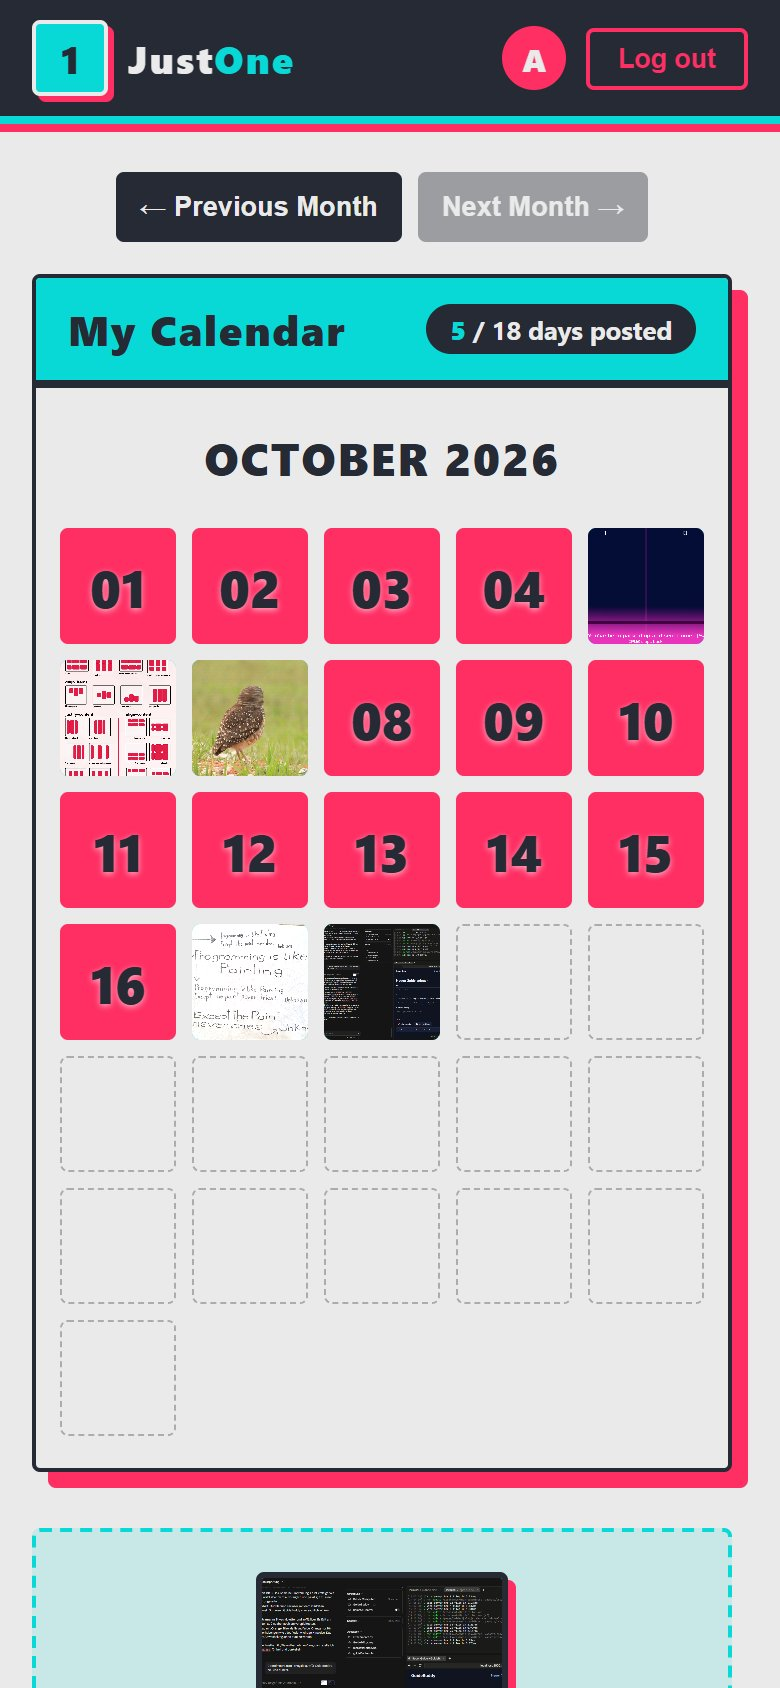
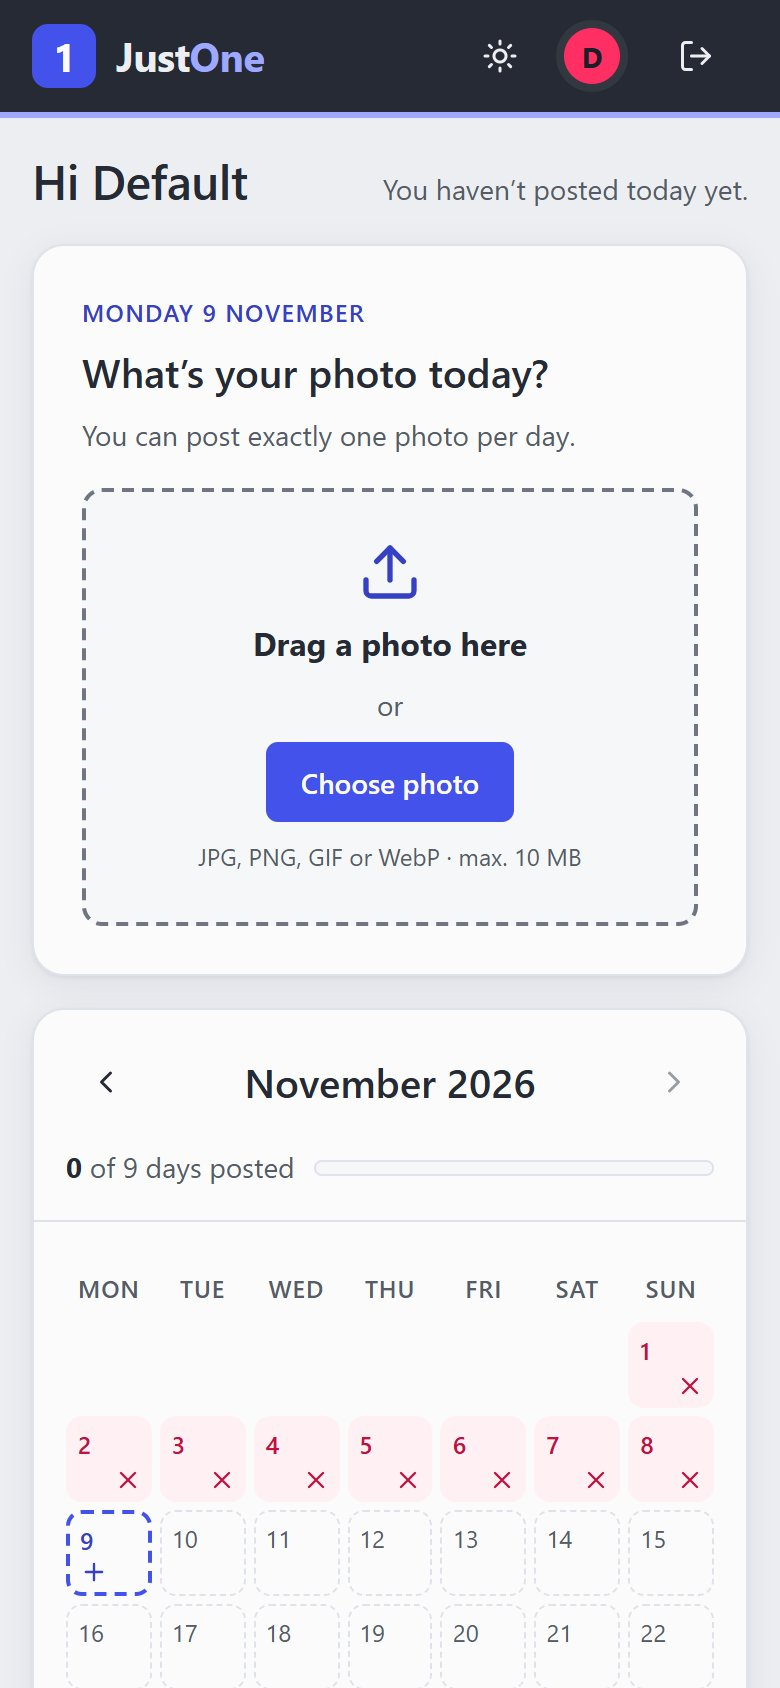
Update README for the redesign with new screenshots
- New screenshots: calendar, comments (portrait/landscape), login,
  mobile and a new dark mode view
- Describe the new features (states, dark mode, accessibility)
- Color table now Indigo/Pink/Gray/Red with roles; link to mockups
- Project structure lists the new components and composables

diff --git a/README.md b/README.md
@@ -18,21 +18,27 @@ A social network with one simple rule: **one photo per day, nothing more.** No e
 
 ### Monthly calendar
 
-The whole page: sticky header, month navigation, the calendar with a "days posted" counter, the upload box for today's photo, the guestbook and the footer.
+The month as a real calendar (Monday to Sunday) with a "days posted" counter. Missed days are marked with an icon and text, not only by color. Next to it sits the one task of the day: the "Today" card with drag & drop upload. Below it, the private guestbook.
 
-![JustOne calendar view with header, upload, guestbook and footer](docs/screenshot.jpeg)
+![JustOne calendar view with today card, guestbook and footer](docs/screenshot.jpeg)
 
 ### Comments
 
-The post view adapts to the photo: portrait images sit next to the comments, landscape images are shown above them.
+The photo view follows the theme and adapts to the photo: portrait images sit next to the comments, landscape images are shown above them. Arrow keys switch to the previous/next photo, Escape closes it.
 
 | Portrait photo | Landscape photo |
 | --- | --- |
 | ![Comments next to a portrait photo](docs/comments-screenshot.jpeg) | ![Comments below a landscape photo](docs/comments-landscape-screenshot.jpeg) |
 
+### Dark mode
+
+Its own dark palette (not an inverted light theme): raised surfaces get lighter, text is a soft white. The theme follows the system setting and can be switched in the header.
+
+![JustOne calendar in dark mode](docs/dark-screenshot.jpeg)
+
 ### Login and mobile view
 
-The login page shares the header and footer. On phones the calendar switches to a compact five-column grid.
+Forms with visible labels, a demo-account button and error messages that explain what to do. On phones the most important card – today's photo – comes first.
 
 | Login | Mobile |
 | --- | --- |
@@ -54,18 +60,25 @@ Every user sees their month as a grid of boxes, one per day. If a photo was post
 - **Daily comments**: comments attached directly to a post, with author display
 - **Guestbook**: a dedicated section below the calendar
 - **Comment box**: auto-growing text field, emoji picker, Enter to send, character counter
-- **Responsive design**: sticky header with user menu, footer, hover/focus states and a dedicated mobile layout
+- **Feedback for every state**: skeletons while loading, errors with a "Try again" action, confirmation before deleting, toasts after posting
+- **Dark mode**: follows the system, switchable (system / light / dark) in the header
+- **Accessible**: WCAG AA contrast for all text, keyboard-operable calendar and dialogs, visible focus, labelled form fields, `prefers-reduced-motion` respected
+- **Responsive design**: two columns on desktop, one column on phones with today's task first
 
 ## Design
 
-All colors come from one palette, defined once as CSS variables in [`theme.css`](vue-frontend/src/assets/theme.css) and used by every component:
+The design follows common UI/UX guidelines (Nielsen heuristics, WCAG, 60-30-10 color rule). The mockups and the reasoning behind them are in [`docs/mockups`](docs/mockups/index.html).
 
-| Color | Hex | Used for |
+All colors are defined once as fixed scales (50–900) in [`theme.css`](vue-frontend/src/assets/theme.css). Components only use semantic roles such as `--accent`, `--surface` or `--missed`, so light and dark mode switch automatically.
+
+| Color | Base | Role |
 | --- | --- | --- |
-| ![cyan](https://img.shields.io/badge/-%20-08d9d6?style=flat-square) Cyan | `#08d9d6` | header accents, calendar header, footer, primary buttons |
-| ![dark](https://img.shields.io/badge/-%20-252a34?style=flat-square) Dark | `#252a34` | header, text, borders, modal background |
-| ![pink](https://img.shields.io/badge/-%20-ff2e63?style=flat-square) Pink | `#ff2e63` | missed days, offset shadows, hover states, errors |
-| ![light](https://img.shields.io/badge/-%20-eaeaea?style=flat-square) Light | `#eaeaea` | page background, text on dark surfaces |
+| ![indigo](https://img.shields.io/badge/-%20-5b6cff?style=flat-square) Indigo | `#5b6cff` | primary color: logo, primary buttons, links, focus, today, progress |
+| ![pink](https://img.shields.io/badge/-%20-ff2e63?style=flat-square) Pink | `#ff2e63` | secondary color: missed days, avatars |
+| ![gray](https://img.shields.io/badge/-%20-252a34?style=flat-square) Gray | `#252a34` | text, header and footer, dark mode surfaces |
+| ![red](https://img.shields.io/badge/-%20-c42b2b?style=flat-square) Red | `#c42b2b` | errors and delete only (independent of the brand) |
+
+Typography: one system font stack (Segoe UI, SF Pro, Roboto …), sizes in `rem` from 12 to 32 px, body text 16 px with line height 1.5.
 
 ## Tech Stack
 
@@ -84,13 +97,13 @@ JustOne/
 │   ├── Data/                  # AppDbContext, DbSeeder
 │   ├── Migrations/            # EF Core migrations
 │   └── Auth/                  # JWT settings, TokenService
-├── docs/                      # Screenshots for this README
+├── docs/                      # Screenshots for this README, design mockups
 └── vue-frontend/              # Vue 3 frontend
     └── src/
-        ├── components/        # AppHeader, AppFooter, Login, Register, PostCalendar,
-        │                      # PostUpload, Comments, Guestbook, ImageModal
-        ├── assets/            # theme.css (color palette as CSS variables)
-        ├── composables/       # usePostCalendar
+        ├── components/        # AppHeader, AppFooter, PostCalendar, TodayCard, ImageModal,
+        │                      # Comments, Guestbook, Login, Register, ConfirmDialog, ToastHost
+        ├── assets/            # theme.css (design tokens: colors, type, spacing; light + dark)
+        ├── composables/       # usePostCalendar, useTheme, useToast
         ├── stores/            # auth (Pinia)
         └── api/               # Axios client with auth interceptor
 ```
